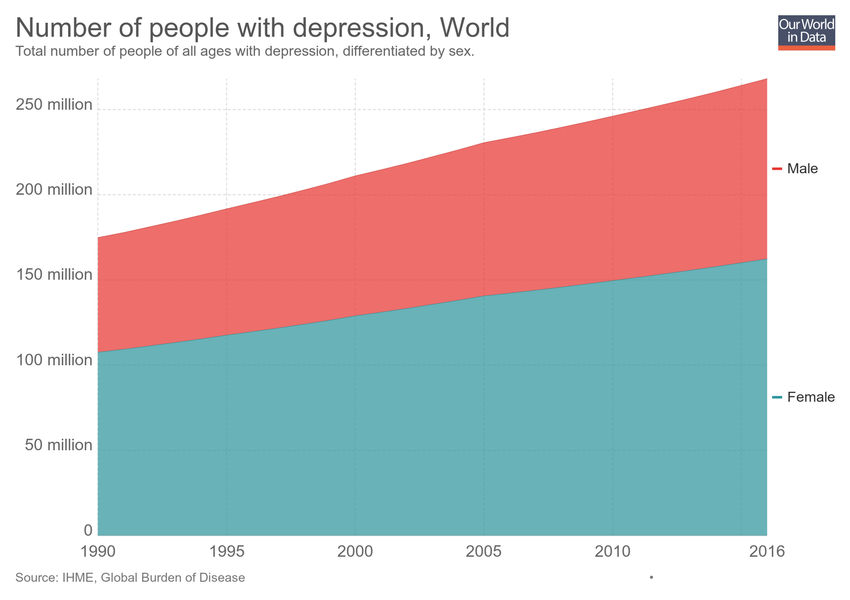
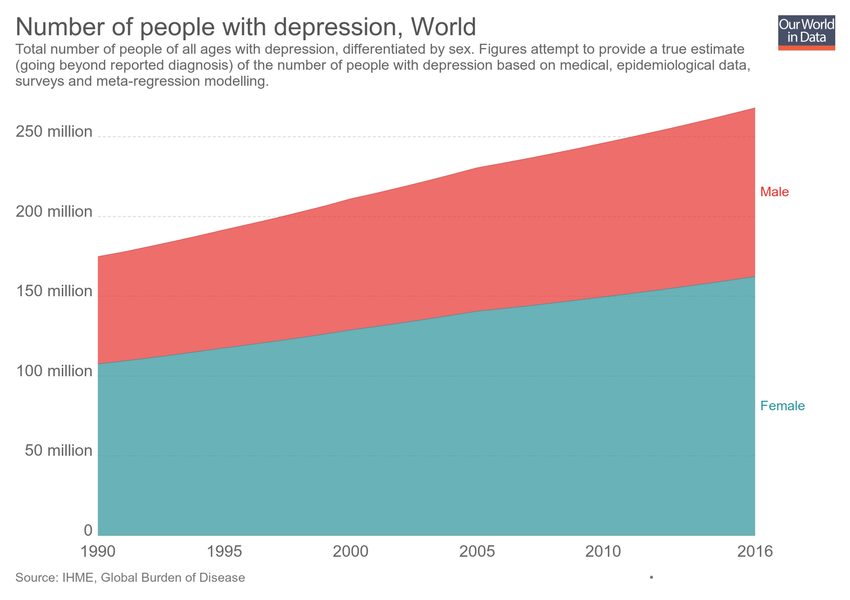
Updating chart number-of-people-with-depression

diff --git a/grapher/prevalence-of-depression-males-vs-females.html b/grapher/prevalence-of-depression-males-vs-females.html
@@ -1,4 +1,4 @@
-<!doctype html><html><head><meta name="viewport" content="width=device-width, initial-scale=1" /><title>Prevalence of depression, males vs. females - Our World in Data</title><meta name="description" content="Share of males and females suffering from depressive disorders. This is given as the age-standardized percentage which assumes a constant age structure for comparison between sexes, countries and with time." /><link rel="canonical" href="https://ourworldindata.org/grapher/prevalence-of-depression-males-vs-females" /><meta property="fb:app_id" content="1149943818390250" /><meta property="og:url" content="https://ourworldindata.org/grapher/prevalence-of-depression-males-vs-females" /><meta property="og:title" content="Prevalence of depression, males vs. females" /><meta property="og:description" content="Share of males and females suffering from depressive disorders. This is given as the age-standardized percentage which assumes a constant age structure for comparison between sexes, countries and with time." /><meta property="og:image" content="https://ourworldindata.org/grapher/exports/prevalence-of-depression-males-vs-females.png?v=1" /><meta property="og:image:width" content="850" /><meta property="og:image:height" content="600" /><meta property="og:site_name" content="Our World in Data" /><meta name="twitter:card" content="summary_large_image" /><meta name="twitter:site" content="@OurWorldInData" /><meta name="twitter:creator" content="@OurWorldInData" /><meta name="twitter:title" content="Prevalence of depression, males vs. females" /><meta name="twitter:description" content="Share of males and females suffering from depressive disorders. This is given as the age-standardized percentage which assumes a constant age structure for comparison between sexes, countries and with time." /><meta name="twitter:image" content="https://ourworldindata.org/grapher/exports/prevalence-of-depression-males-vs-females.png?v=1" /><style>
+<!doctype html><html><head><meta name="viewport" content="width=device-width, initial-scale=1" /><title>Prevalence of depression, males vs. females - Our World in Data</title><meta name="description" content="Share of males and females suffering from depressive disorders. Figures attempt to provide a true estimate (going beyond reported diagnosis) of depression prevalence based on medical, epidemiological data, surveys and meta-regression modelling." /><link rel="canonical" href="https://ourworldindata.org/grapher/prevalence-of-depression-males-vs-females" /><meta property="fb:app_id" content="1149943818390250" /><meta property="og:url" content="https://ourworldindata.org/grapher/prevalence-of-depression-males-vs-females" /><meta property="og:title" content="Prevalence of depression, males vs. females" /><meta property="og:description" content="Share of males and females suffering from depressive disorders. Figures attempt to provide a true estimate (going beyond reported diagnosis) of depression prevalence based on medical, epidemiological data, surveys and meta-regression modelling." /><meta property="og:image" content="https://ourworldindata.org/grapher/exports/prevalence-of-depression-males-vs-females.png?v=2" /><meta property="og:image:width" content="850" /><meta property="og:image:height" content="600" /><meta property="og:site_name" content="Our World in Data" /><meta name="twitter:card" content="summary_large_image" /><meta name="twitter:site" content="@OurWorldInData" /><meta name="twitter:creator" content="@OurWorldInData" /><meta name="twitter:title" content="Prevalence of depression, males vs. females" /><meta name="twitter:description" content="Share of males and females suffering from depressive disorders. Figures attempt to provide a true estimate (going beyond reported diagnosis) of depression prevalence based on medical, epidemiological data, surveys and meta-regression modelling." /><meta name="twitter:image" content="https://ourworldindata.org/grapher/exports/prevalence-of-depression-males-vs-females.png?v=2" /><style>
         html, body {
             height: 100%;
             margin: 0;
@@ -20,8 +20,8 @@
         }
     </style><noscript><style>
                     figure { display: none !important; }
-                </style></noscript><link rel="stylesheet" href="https://ourworldindata.org/grapher/assets/commons.bundle.ac09ff8f098f0c7be836.css" /><link rel="preload" href="/grapher/data/variables/84300+84301+72+123.json?v=1" as="fetch" crossorigin /></head><body class="singleChart"><figure data-grapher-src="/grapher/prevalence-of-depression-males-vs-females"></figure><noscript id="fallback"><img src="/grapher/exports/prevalence-of-depression-males-vs-females.svg" /><p>Interactive visualization requires JavaScript</p></noscript><script src="https://cdn.polyfill.io/v2/polyfill.min.js?features=es6,fetch"></script><script src="https://ourworldindata.org/grapher/assets/commons.bundle.ac09ff8f098f0c7be836.js"></script><script src="https://ourworldindata.org/grapher/assets/charts.bundle.dcf65b68eddaba4c6a58.js"></script><script>
-        var jsonConfig = {"map":{"projection":"World","colorSchemeLabels":[],"colorSchemeValues":[],"defaultProjection":"World","colorSchemeMinValue":0,"customNumericColors":[],"customCategoryColors":{},"customCategoryLabels":{},"customHiddenCategories":{}},"tab":"chart","slug":"prevalence-of-depression-males-vs-females","type":"ScatterPlot","title":"Prevalence of depression, males vs. females","xAxis":{"max":8,"min":1,"scaleType":"linear"},"yAxis":{"max":8,"min":1,"scaleType":"linear"},"maxTime":2016,"minTime":2016,"version":1,"subtitle":"Share of males and females suffering from depressive disorders. This is given as the age-standardized percentage which assumes a constant age structure for comparison between sexes, countries and with time.","hasMapTab":false,"stackMode":"absolute","dimensions":[{"display":{"name":"Prevalence in males","unit":"%"},"property":"y","variableId":84300},{"display":{"name":"Prevalence in females","unit":"%"},"property":"x","variableId":84301},{"display":{},"property":"size","variableId":72},{"display":{},"property":"color","variableId":123}],"isAutoSlug":true,"sourceDesc":"IHME, Global Burden of Disease","hasChartTab":true,"isPublished":true,"selectedData":[],"comparisonLine":{},"id":2124};
+                </style></noscript><link rel="stylesheet" href="https://ourworldindata.org/grapher/assets/commons.bundle.ac09ff8f098f0c7be836.css" /><link rel="preload" href="/grapher/data/variables/84300+84301+72+123.json?v=2" as="fetch" crossorigin /></head><body class="singleChart"><figure data-grapher-src="/grapher/prevalence-of-depression-males-vs-females"></figure><noscript id="fallback"><img src="/grapher/exports/prevalence-of-depression-males-vs-females.svg" /><p>Interactive visualization requires JavaScript</p></noscript><script src="https://cdn.polyfill.io/v2/polyfill.min.js?features=es6,fetch"></script><script src="https://ourworldindata.org/grapher/assets/commons.bundle.ac09ff8f098f0c7be836.js"></script><script src="https://ourworldindata.org/grapher/assets/charts.bundle.dcf65b68eddaba4c6a58.js"></script><script>
+        var jsonConfig = {"id":2124,"map":{"projection":"World","colorSchemeLabels":[],"colorSchemeValues":[],"colorSchemeMinValue":0,"customNumericColors":[],"customCategoryColors":{},"customCategoryLabels":{},"customHiddenCategories":{}},"tab":"chart","slug":"prevalence-of-depression-males-vs-females","type":"ScatterPlot","title":"Prevalence of depression, males vs. females","xAxis":{"max":8,"min":1,"scaleType":"linear"},"yAxis":{"max":8,"min":1,"scaleType":"linear"},"maxTime":2016,"minTime":2016,"version":2,"subtitle":"Share of males and females suffering from depressive disorders. Figures attempt to provide a true estimate (going beyond reported diagnosis) of depression prevalence based on medical, epidemiological data, surveys and meta-regression modelling.","hasMapTab":false,"stackMode":"absolute","dimensions":[{"display":{"name":"Prevalence in males","unit":"%"},"property":"y","variableId":84300},{"display":{"name":"Prevalence in females","unit":"%"},"property":"x","variableId":84301},{"display":{},"property":"size","variableId":72},{"display":{},"property":"color","variableId":123}],"sourceDesc":"IHME, Global Burden of Disease","hasChartTab":true,"isPublished":true,"selectedData":[],"comparisonLine":{}};
         var figure = document.getElementsByTagName("figure")[0];
         try {
             window.App = {};
